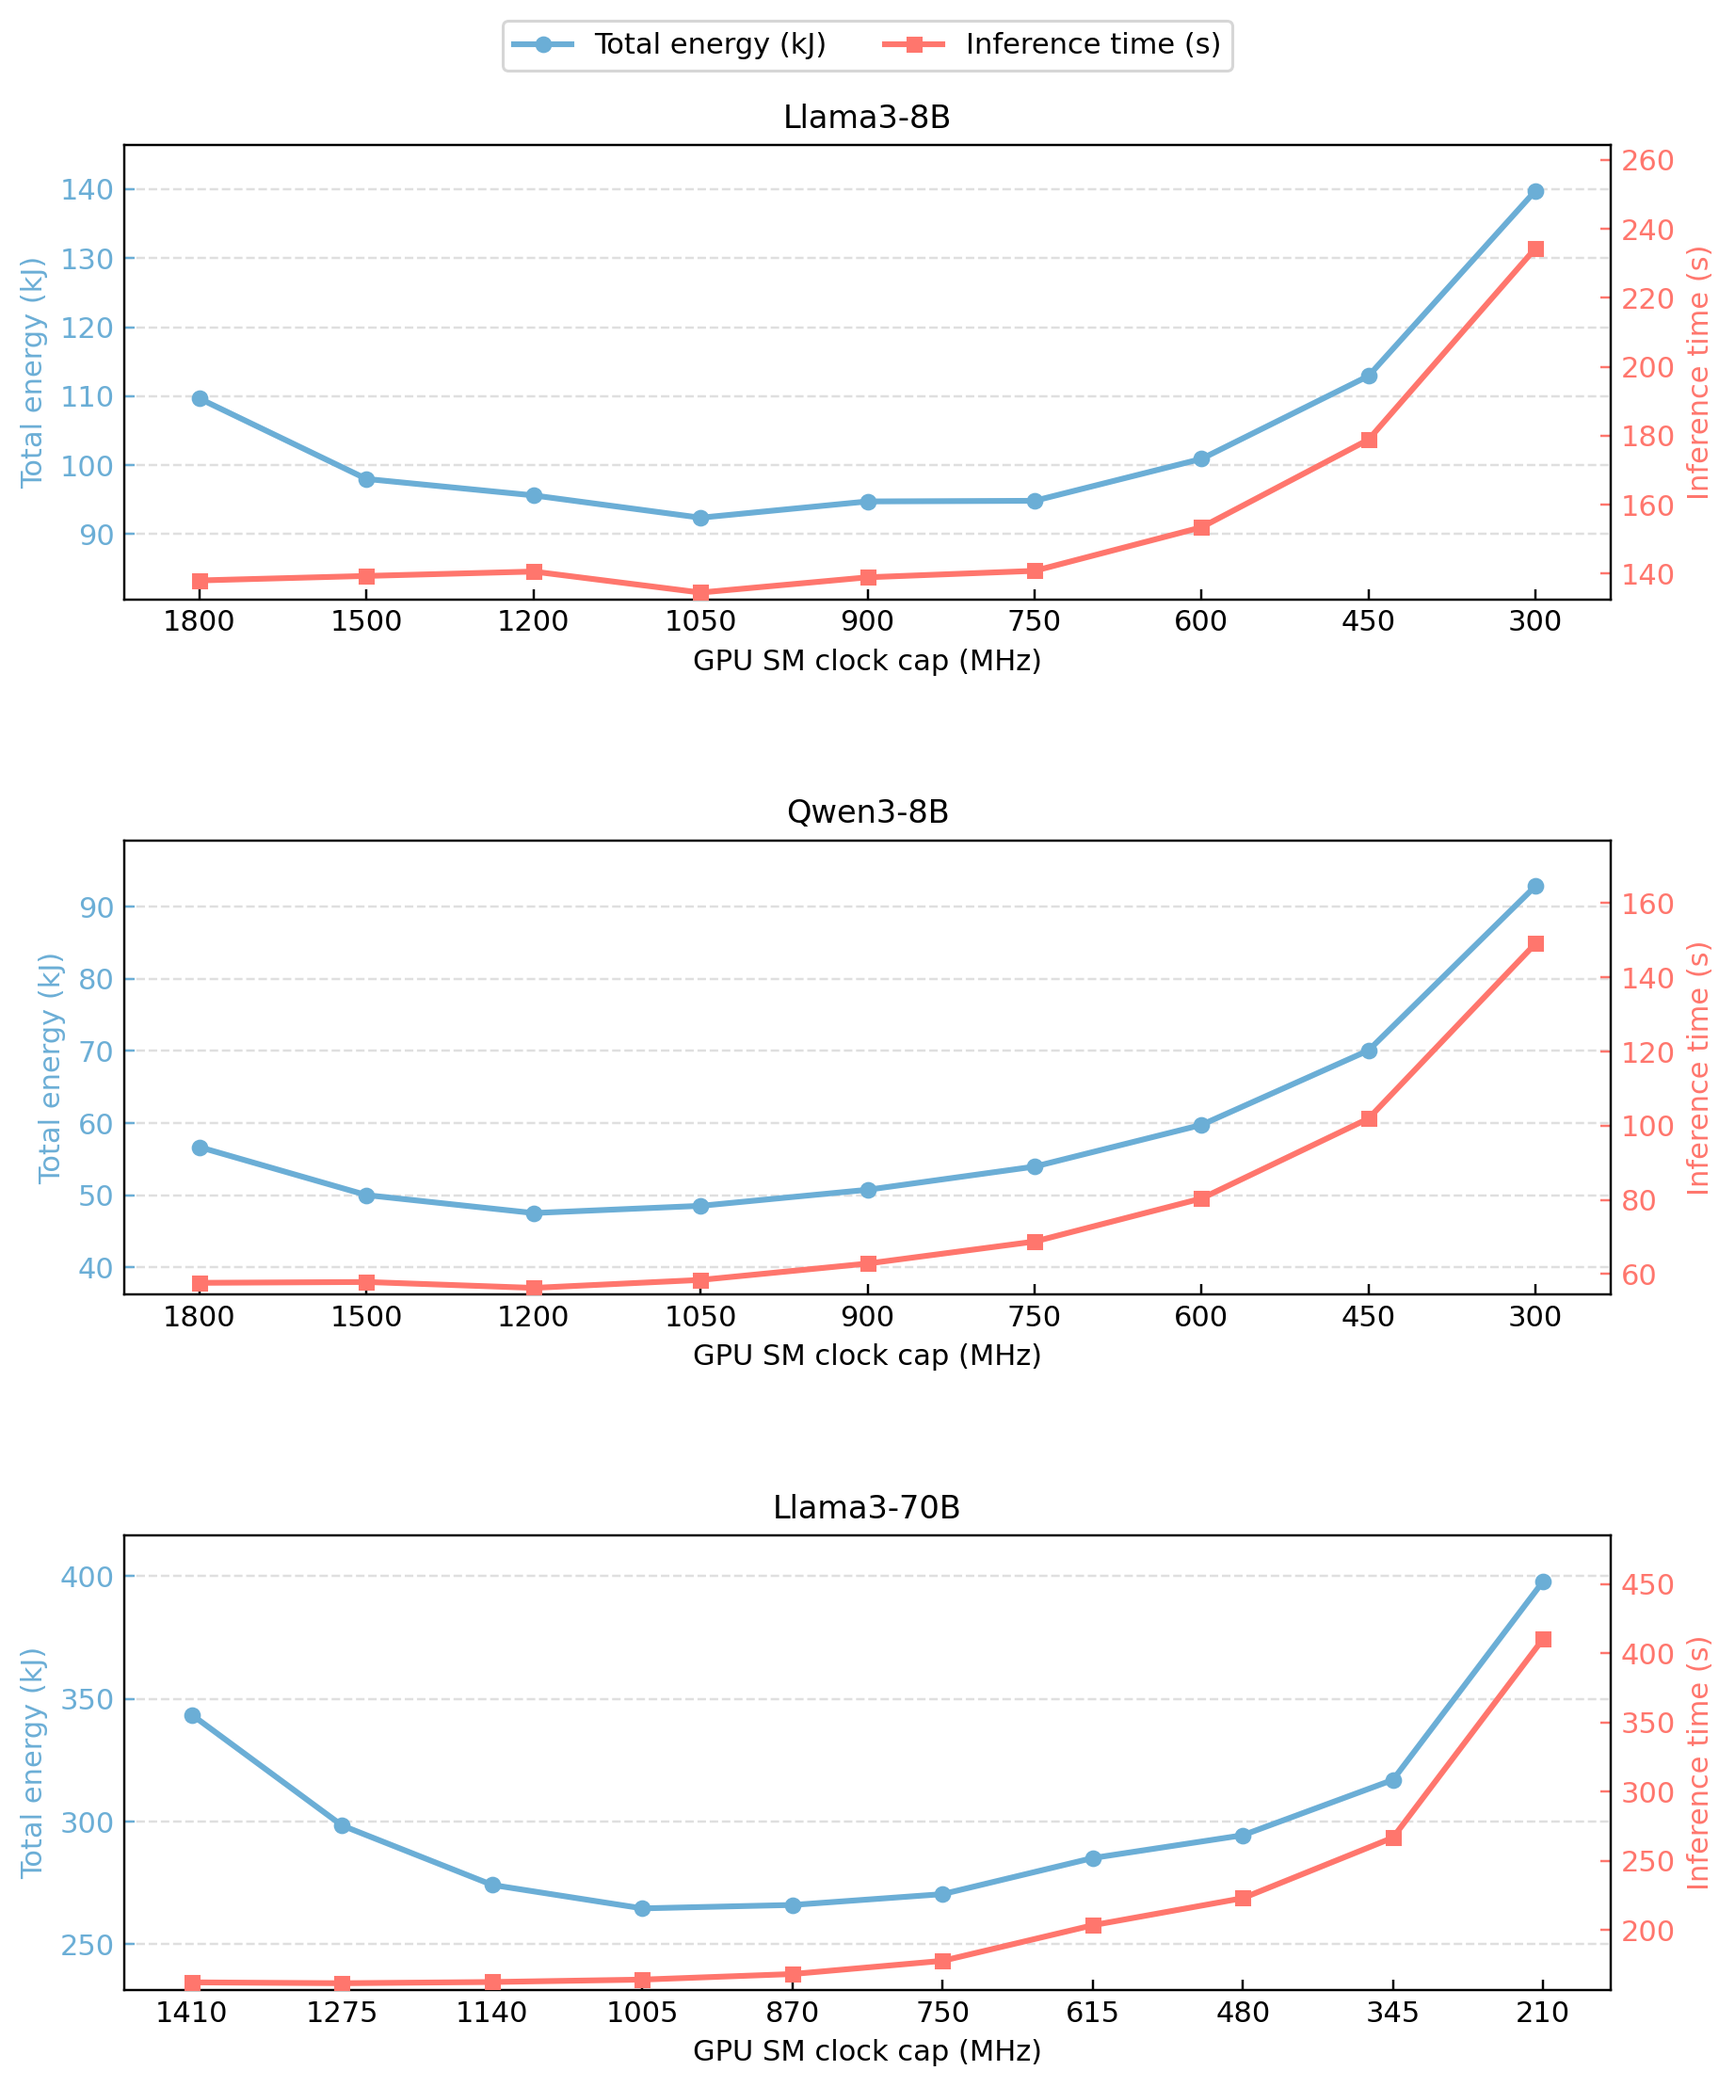
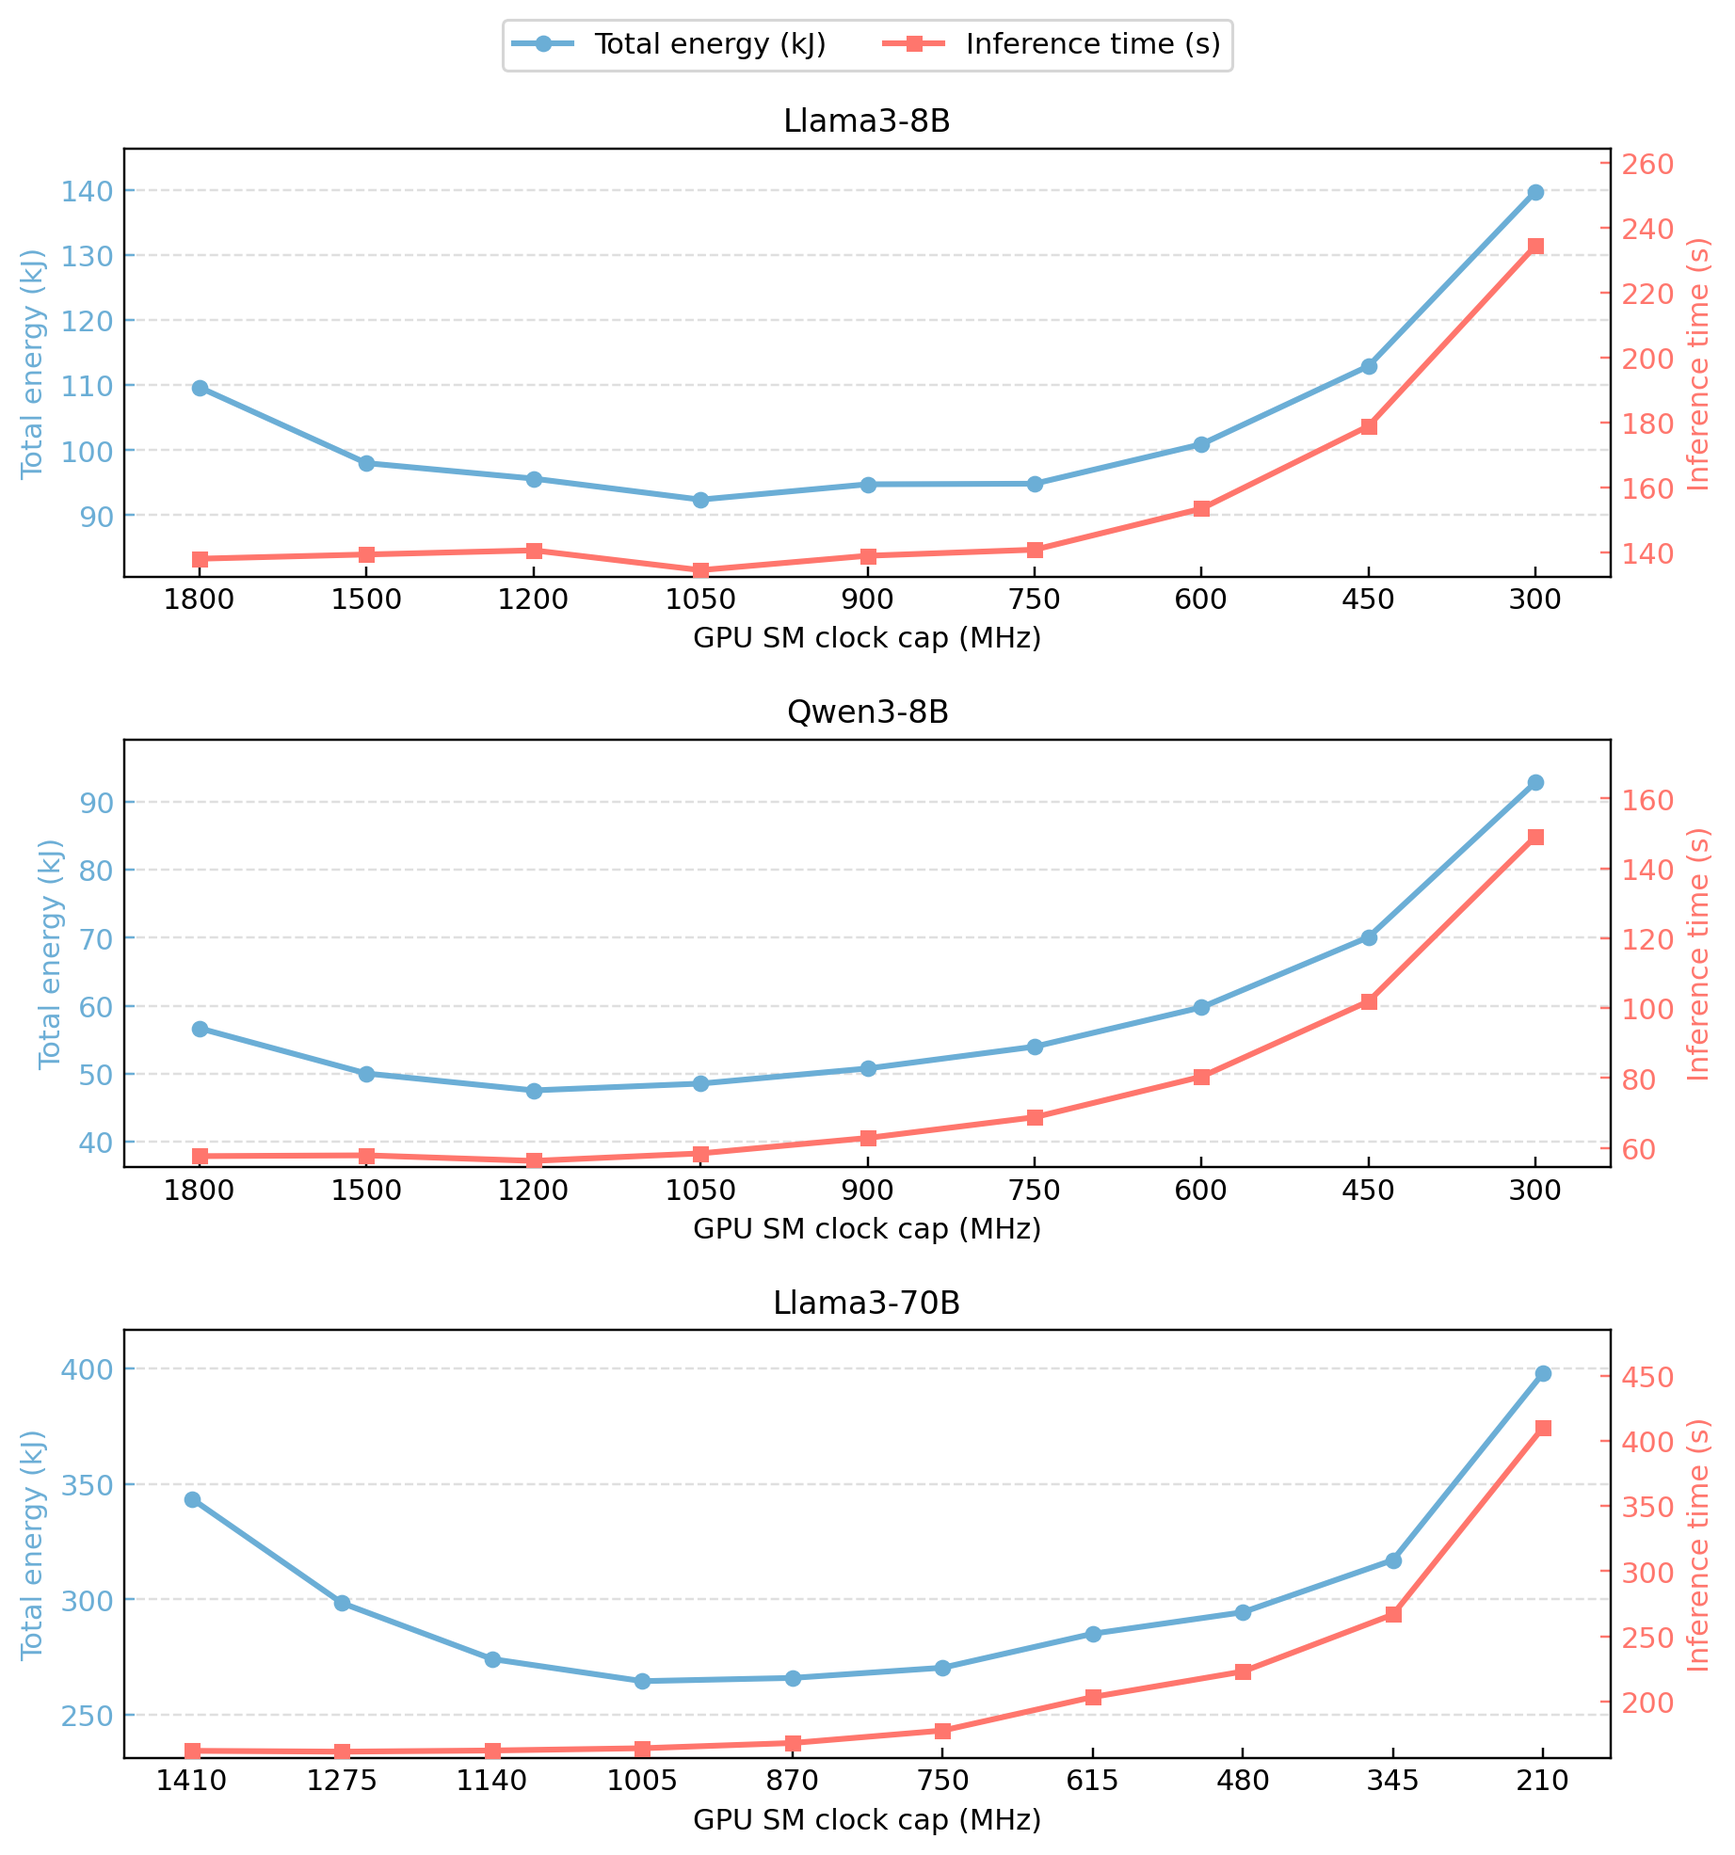
Tighten spacing between Fig 11 panels

diff --git a/figures/hcw_figures/fig11_sharegpt_three_models_bs256_20261018/plot.py b/figures/hcw_figures/fig11_sharegpt_three_models_bs256_20261018/plot.py
@@ -78,12 +78,12 @@ def draw(ax, group, title):
 def main():
     rows = load()
     plt.rcParams.update({"font.family": "DejaVu Sans", "font.size": 10})
-    fig, axes = plt.subplots(3, 1, figsize=(9.2, 10.3))
+    fig, axes = plt.subplots(3, 1, figsize=(9.2, 9.2))
     for ax, (model, title) in zip(axes, PANELS):
         lines = draw(ax, [row for row in rows if row["model"] == model], title)
     fig.legend(lines, [line.get_label() for line in lines], loc="upper center",
                bbox_to_anchor=(0.5, 0.995), ncol=2, frameon=True)
-    fig.subplots_adjust(left=0.11, right=0.89, top=0.93, bottom=0.065, hspace=0.53)
+    fig.subplots_adjust(left=0.11, right=0.89, top=0.92, bottom=0.075, hspace=0.38)
     fig.savefig(OUTPUT.with_suffix(".png"), dpi=220, bbox_inches="tight")
     fig.savefig(OUTPUT.with_suffix(".pdf"), bbox_inches="tight")
     plt.close(fig)
